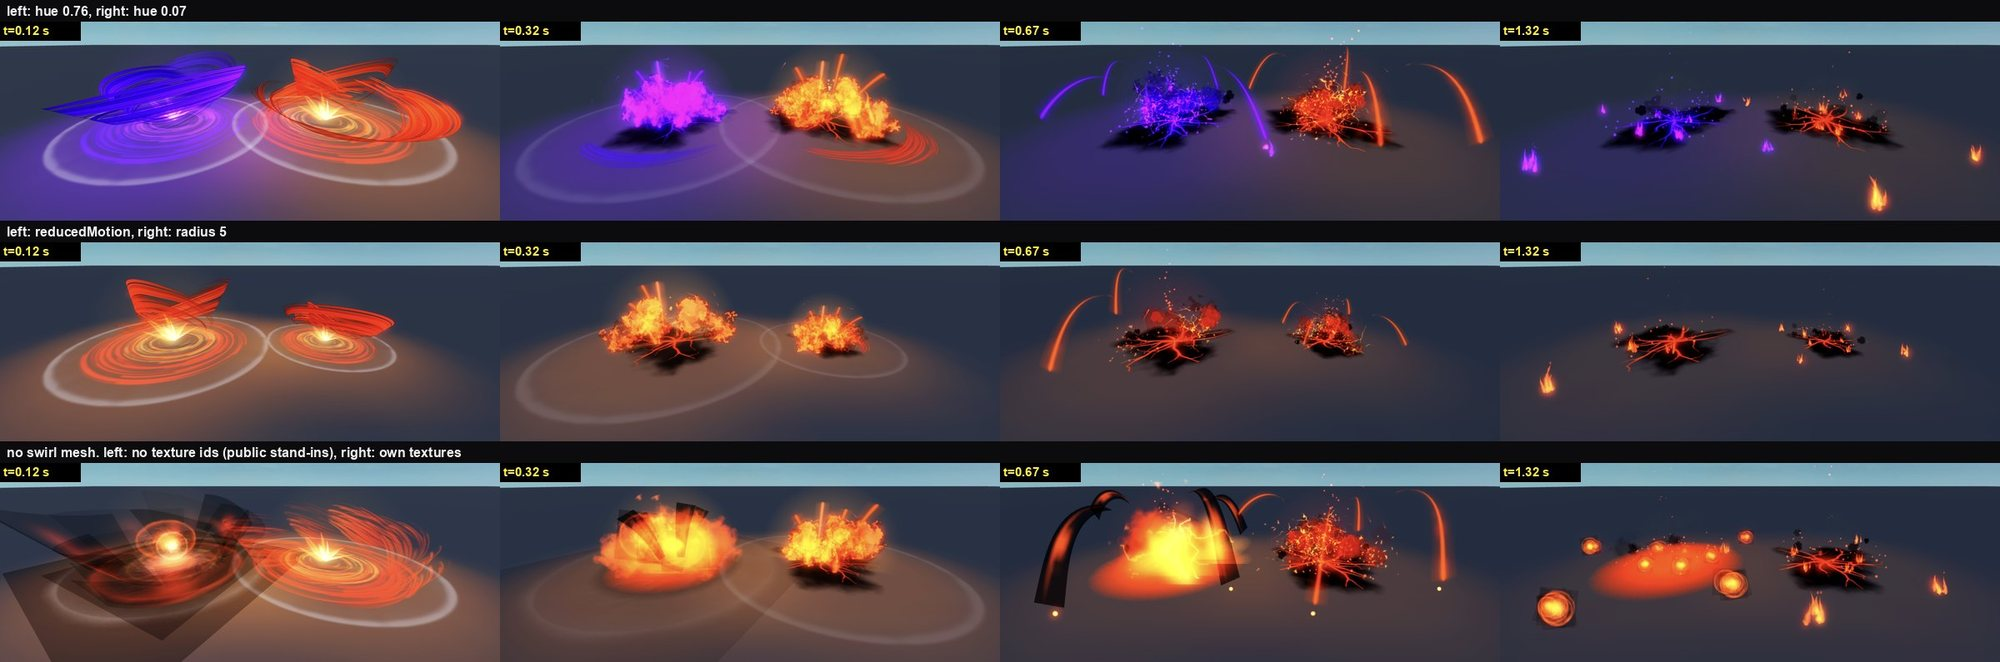
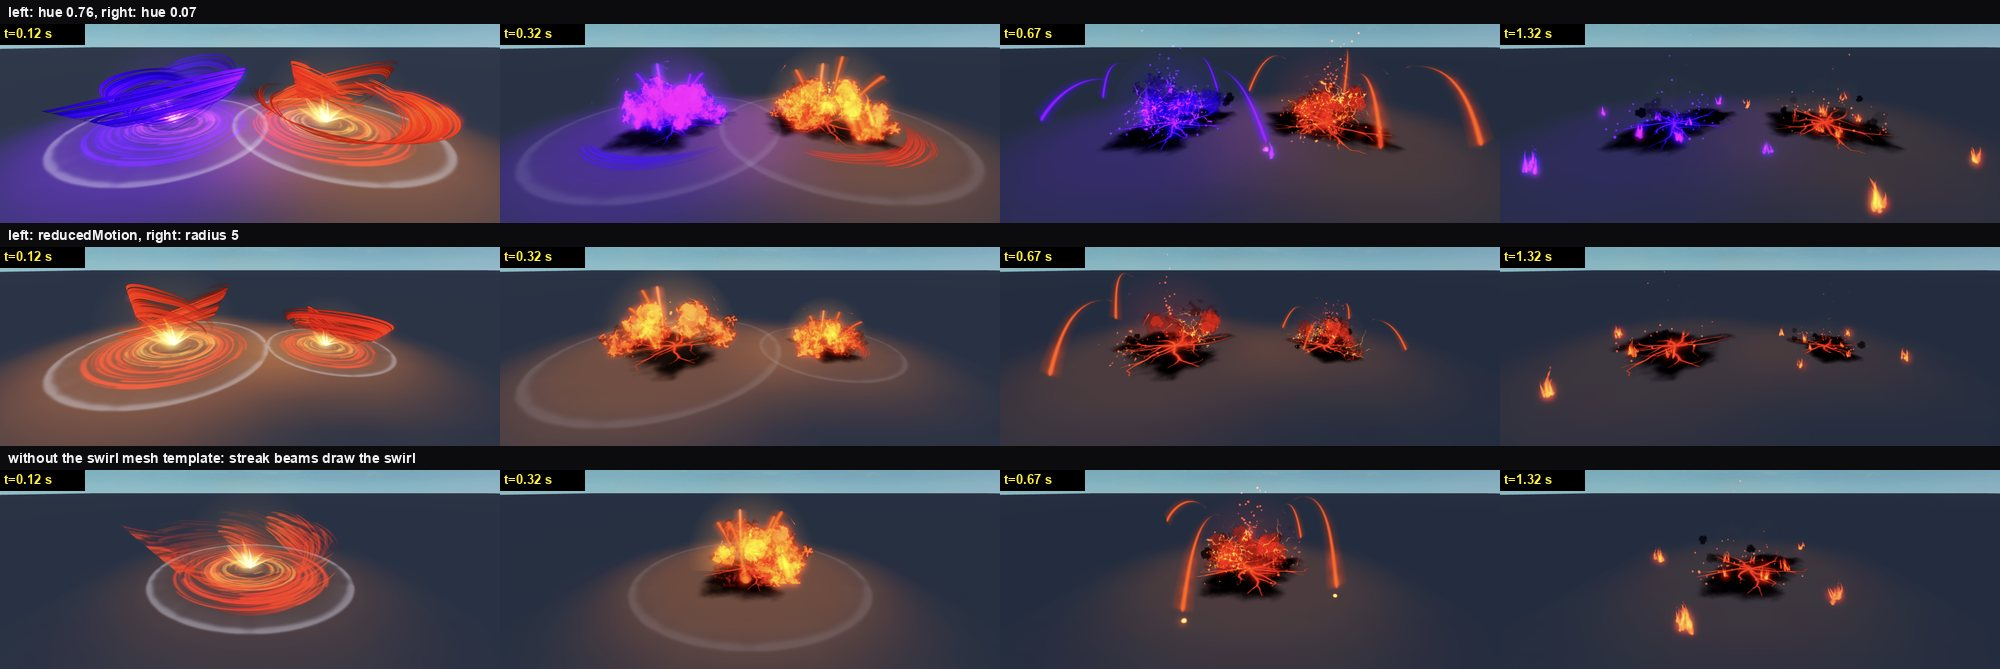
fix: ground blast refuses to play without its textures; rule against large one-colour masses
- ground_blast.luau: no public stand-in textures. A public texture stretched over these
  layers gave large one-colour shapes that read as pasted images; play() and preload() now
  raise an error that lists the missing texture names
- section 3 house rule (owner, 2026-11-18): avoid a large mass of one colour; judge an
  effect at real speed as well as on frozen frames; checklist row extended
- variants sheet without the stand-in cast; README, data (rules.no_flat_mass) updated

Claude-Session: https://claude.ai/code/session_01BvePZsicHgMYSL8gspz521

diff --git a/plugins/roblox-skills/skills/roblox-feel-audio-vfx/SKILL.md b/plugins/roblox-skills/skills/roblox-feel-audio-vfx/SKILL.md
@@ -42,7 +42,7 @@ Sound effects, music and ambience live in `roblox-audio`: event sound map, mix, 
 - The built-in `rbxasset://textures/particles/*` textures plus thin Trails read as a wireframe of lines on a dark sky next to concept art. A release-quality burst needs custom glow, star, streak and sparkle (flipbook) textures, dense emission along the shape, additive layers (`LightEmission` 1, `LightInfluence` 0) and a moderate `Bloom`. Dark semi-transparent layers over a night sky render brown and muddy; use fewer, brighter additive ones (field observations, 2026-11-04).
 - Generated glow and energy sprites for additive use: ask for the sprite on pure black, not on a transparent background. With `LightEmission` 1 the dark regions of a texture disappear (docs), so the black needs no keying, and the soft falloff stays. A transparent background comes back as a cut-out: in one test image about 69% of the pixels were fully clear, the body almost opaque and the halo under alpha 32 of 255, so the glow lost its falloff (relayed by RoDesigner, 2026-11-14). Ask for transparency only for solid sprites with normal blend.
 - House rule (owner): VFX are Blender meshes (`roblox-blender-export`) plus gradient or flipbook textures. No block tiles and no default sparkles (the `Sparkles` object or the built-in particle textures) in a release: built-in `rbxasset://` textures are prototype only, labelled as greybox, and public docs ids are a test stage (stages and ids: section 3d). The owner also approved an effect form of beams and particles with no mesh (section 3d; approved 2026-11-17). A glowing Blender mesh without a `SurfaceAppearance` (field note, 2026-11-09): model the emissive shapes as their own geometry in flat `Neon` colors (Neon on a textured MeshPart does not glow, `roblox-pitfalls` section 4), layer a dark non-Neon shade mesh for the dark parts, and put textures only on lit surfaces. When a brief forbids uploads, a portal vortex that worked without them (field note, 2026-11-09) used flat curved Beams as spiral arms around a centre: `CurveSize0` and `CurveSize1` bend a beam into a Bezier curve (docs), `FaceCamera` is false, and the built-in glow texture is stretched along each arm (section 4, "Night glow without lights"; a prototype by the stages above).
-- House rule (owner, 2026-11-18): build every effect from small units, in size and in lifetime, even when that takes longer or is harder. No sprite is a picture of a whole thing (a whole flame, a whole explosion); each piece lives about 0.05-0.3 s and is replaced for as long as the effect lasts; a fire that dies shrinks, it does not thin out to one piece. Method, numbers and the measurements behind them: section 3g.
+- House rule (owner, 2026-11-18): build every effect from small units, in size and in lifetime, even when that takes longer or is harder. No sprite is a picture of a whole thing (a whole flame, a whole explosion); each piece lives about 0.05-0.3 s and is replaced for as long as the effect lasts; a fire that dies shrinks, it does not thin out to one piece. Avoid a large mass of one colour wherever possible (owner, same day): a big shape needs bands, texture or pieces inside it, and a layer whose texture is missing is left out, not drawn as a flat shape. Judge an effect running at real speed as well as on frozen frames. Method, numbers and the measurements behind them: section 3g.
 - Beams, trails, lights, highlights: use sparingly; each light source and highlight has a cost.
 - **A `Highlight` skips transparent parts.** It drew no outline and no fill on parts with any `Transparency` above 0: hologram parts at 0.06 lost the whole rim and tint (toggled live in Studio, field note 2026-11-11). The docs do not say so; a Roblox staff reply says highlights on transparent parts have not worked for years, and posters there report that parts inside a model with a Humanoid still get them (DevForum t/4678843, 2026-08-20). Keep highlighted parts at `Transparency` 0 and make a hologram from a dark `Neon` colour plus the Highlight fill. Check a Highlight against a plain background before trusting a capture: a bright portal behind the model passed for a rim.
 - **Curved Beams.** A Beam is a cubic Bezier: P1 sits `CurveSize0` studs along +X of `Attachment0`, P2 sits `CurveSize1` studs along -X of `Attachment1` (docs, effects/beams). For a circle of radius R from four quarter-arc beams, point each attachment's X axis along the direction of travel and set both sizes to +0.5523 R, the usual Bezier quarter-circle constant (4/3 x (sqrt 2 - 1)); a negative `CurveSize1` drew a hook at each joint (field note, 2026-11-11).
@@ -423,7 +423,7 @@ Files: `scripts/ground_blast.luau` on `scripts/fx_clock.luau`, `scripts/fx_textu
 Setup, once per game:
 
 1. Run `ground_blast_textures.py <outDir> --preview` and look at `preview.jpg`: yellow only in the hottest parts, red at the rims.
-2. Upload the PNG files as Images to the account or group that owns the game (asset uploads are permanent: ask the user first) and write the ids into `fx_own_textures`. No texture id ships with this skill: without ids the effect runs on public stand-in textures and looks rough (`ground_blast_variants.jpg`, bottom row).
+2. Upload the PNG files as Images to the account or group that owns the game (asset uploads are permanent: ask the user first) and write the ids into `fx_own_textures`. No texture id ships with this skill, and there is no stand-in: while an id is missing `play` raises an error that lists the missing names (public textures stretched over these layers gave large one-colour shapes that read as pasted images).
 3. Optional, the swirl as a mesh: run `ground_blast_swirl.py`, upload the FBX as a Model, and build the template its header describes (a MeshPart named Swirl in a folder FxMeshTemplates in ReplicatedStorage, with a SurfaceAppearance whose two maps are the `swirl_streaks` texture). Without the template streak beams draw the swirl.
 
 **Six rules.**
@@ -505,7 +505,7 @@ Not tested: `Texture` or `Decal` instances on a mesh, UV scrolling on a mesh.
 | The stage floor's Part colour (107, 115, 120) drew as about (38, 44, 62) under the dim stage light | set the floor from a screenshot, not from the colour picker |
 | A paused-clock capture shows each beat exactly, but pieces looked longer-lived than in play | add a real-time burst of screenshots before judging lifetimes, and check that no piece is ever seen alone |
 
-**Counts** (one cast): 19 beams, 21 emitters, 18 helper parts, 3 mesh parts, 1 light; with `reducedMotion` 17, 17, 14, 2, 1; nothing left in Workspace after the end. Live at once at the 16 beats of the served code: at most 15 beams and 21 emitters. A second hue, a 5-stud radius, a cast without texture ids and a cast without the mesh template ran.
+**Counts** (one cast): 19 beams, 21 emitters, 18 helper parts, 3 mesh parts, 1 light; with `reducedMotion` 17, 17, 14, 2, 1; nothing left in Workspace after the end. Live at once at the 16 beats of the served code: at most 15 beams and 21 emitters. A second hue, a 5-stud radius, and a cast without the mesh template ran.
 
 **Known limits.** No sound. The swirl needs its own mesh upload and a template in the place. The violet variant is flatter than the orange one. The reference's first frame (a crown of blades and a ring wall) is only hinted. No phone preset and no frame cost were measured: the fire peak holds about 20 live sprites of 3-6 studs, which is fill rate (section 3, first bullet).
 
@@ -538,7 +538,7 @@ Not tested: `Texture` or `Decal` instances on a mesh, UV scrolling on a mesh.
 | Action animations at `Action` priority or higher; tracks cached, not reloaded per use; NPC animations play from the server | yes |
 | Screen shake has an off switch, combines by max, and only the object the camera follows (normally the player character) or the player's own actions move the camera | yes |
 | Full-screen flashes and edge pulses start at most twice a second; Reduce Motion and the game's own switches are honoured (section 3b); a cutscene counts its flashes in code, at most 3 in any second (section 3e) | yes |
-| Effects are built from small short-lived pieces: no sprite shows a whole flame or explosion, pieces live about 0.05-0.3 s, and a real-time capture shows no piece alone (section 3g) | yes |
+| Effects are built from small short-lived pieces: no sprite shows a whole flame or explosion, pieces live about 0.05-0.3 s, a real-time capture shows no piece alone, and no large shape is one flat colour (section 3g) | yes |
 | The same 30 s played with all effects off, then on: every channel is missed when off | yes |
 | Test on a low-end phone profile: FPS stable during the busiest effect moment | yes |
 | Mute and volume settings exist; music loops without gaps | yes |

diff --git a/plugins/roblox-skills/skills/roblox-feel-audio-vfx/assets/vfx-examples/README.md b/plugins/roblox-skills/skills/roblox-feel-audio-vfx/assets/vfx-examples/README.md
@@ -46,7 +46,7 @@ Captures of `scripts/ground_blast.luau`, every frame from the served code with t
 |---|---|---|
 | `ground_blast_strip.jpg` | frozen beats, frames uncropped: floor disc, swirl and ring, flash, fire mass and ejecta, reddening with crack lines, break-up into chips and smoke bits, small fires on a cracked patch, cooling | 0.02, 0.07, 0.12, 0.17, 0.22, 0.32, 0.42, 0.57, 0.67, 0.82, 1.02, 1.32, 1.82, 2.42, 3.02, 3.6 |
 | `ground_blast_real_time.jpg` | the same cast at full speed: 16 window screenshots in a row, about 0.12 s apart, cropped. Time 0 is the first screenshot that shows the effect, so every label can be up to 0.11 s early. What a player sees: the fire lumps, tongues, crack lines and chips are different in every screenshot; only the floor patch and the ejecta arcs carry over | 0 to 1.86 |
-| `ground_blast_variants.jpg` | rows: hue 0.76 next to hue 0.07; `reducedMotion` next to radius 5; without the mesh template, a cast with no texture ids (public stand-ins) next to one with the textures | 0.12, 0.32, 0.67, 1.32 |
+| `ground_blast_variants.jpg` | rows: hue 0.76 next to hue 0.07; `reducedMotion` next to radius 5; the same cast without the swirl mesh template (streak beams draw the swirl) | 0.12, 0.32, 0.67, 1.32 |
 | `ground_blast_texture_preview.jpg` | the `--preview` sheet of the generator: fire lump flipbook, tongues, crack webs, chips, flash fan and floor cracks as tint (1, 0.22, 0.03) at `Brightness` 4 draws them | - |
 
-Weak points visible on the sheets (also in section 3g, Known limits): at 0.02 s only one swirl sheet shows, as a single red leaf, and at 0.07-0.12 s the three swirl sheets cross like a bow; the grey ring is a flat ring on the floor; the ejecta trails are thick and bright against the sky; around 1.0 s the red smoke shows as round dark-red puffs above the patch; the violet cast is one flat pink mass at 0.32 s; the cast without texture ids is not usable (soft balls, grey quads, black ribbons). No character for scale, no sound. Not checked on a phone preset, a real phone or in a published game.
+Weak points visible on the sheets (also in section 3g, Known limits): at 0.02 s only one swirl sheet shows, as a single red leaf, and at 0.07-0.12 s the three swirl sheets cross like a bow; the grey ring is a flat ring on the floor; the ejecta trails are thick and bright against the sky; around 1.0 s the red smoke shows as round dark-red puffs above the patch; the violet cast is one flat pink mass at 0.32 s. No character for scale, no sound. Not checked on a phone preset, a real phone or in a published game.
